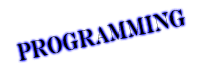
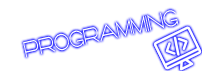
Changed Theming
- Updated stylesheet with darker colours
- Updated icons

Changed region(s): [[0.0594, 0.1127, 1.0, 1.0]]

diff --git a/index.html b/index.html
@@ -1,5 +1,5 @@
 <!-- callum fisher - corbex11@gmail.com
-last updated: 15/11/21 -->
+last updated: 120/11/21 -->
 <!DOCTYPE html>
 <html>
 <head>
@@ -21,25 +21,39 @@ last updated: 15/11/21 -->
 		<noscript><center><p>For the best experience, it's recommended that you <a href="enablejavascript.html">Enable Javascript</a> before continuing.<br>Enabling JavaScript in your browser will allow the website to make use of the powerful programming language that powers most of the web.</p></center></noscript>
 	</div>
 	<div class="content">
+		<img style="float: right;" src="media/welcome.gif" alt="Welcome"></img>
 		<div class="box" id="infoboard" style="color: white; background: linear-gradient(to right, rgb(0,100,160), rgb(0,50,90)); ">
 			<noscript>hi</noscript>
 		</div>
 		<br>
 		<div class="box" style="max-width: 50%;">
-			<a href="photography.html"><img style="max-width: 100%; max-height: 50%;" src="media/PhotoNeon.png" alt="Logo for the photography page"></img></a>
+			<a href="photography.html"><img style="max-width: 100%; max-height: 50%;" src="media/photography.png" alt="Logo for the photography page"></img></a>
 			<p>View some of my favorite pictures I've taken over the years. <a href="photography.html">Learn more..</a></p>
 		</div>
 		<br>
 		<div class="box" style="max-width: 50%;">
-			<a href="programming.html"><img style="max-width: 100%; max-height: 50%;" src="media/CodeNeon.png" alt="Logo for the programming page"></img></a>
+			<a href="writing.html"><img style="max-width: 100%; max-height: 50%;" src="media/writing.png" alt="Logo for the writing page"></img></a>
+			<p>Read some of my written work. <a href="writing.html">Learn more..</a></p>
+		</div>
+		<br>
+		<div class="box" style="max-width: 50%;">
+			<a href="programming.html"><img style="max-width: 100%; max-height: 50%;" src="media/programming.png" alt="Logo for the programming page"></img></a>
 			<p>Learn about my programming projects. <a href="programming.html">Learn more..</a></p>
 		</div>
 	</div>
-	<div class="separator">
-		<p><li>Photography camera & Written Work text icon from <a href="https://www.freepngs.com/" target="_blank" rel="noopener noreferrer">https://freepngs.com/</a></li>
-		<li>Photography logo GIF created using <a href="https://ezgif.com/" target="_blank" rel="noopener noreferrer">https://ezgif.com/</a><br></li>
-		<li>Original assets created using <a href="https://www.photopea.com/" target="_blank" rel="noopener noreferrer">https://www.photopea.com/</a></li></p>
-		<p>Page last updated: 15th of November 2021</p>
-	</div>
 </body>
+<footer>
+	<div class="separator" id="credits">
+		<p><h2>Credits:</h2><ul><h3>Icons</h3><li>Camera icon from <a href="https://www.freepngs.com/" target="_blank" rel="noopener noreferrer">https://freepngs.com/</a></li>
+		<li>Programming icon by <a href="https://www.flaticon.com/authors/lakonicon" title="lakonicon">lakonicon</a> from <a href="https://www.flaticon.com/" title="Flaticon">https://www.flaticon.com/</a></li>
+		<li>Signature icon by <a href="https://www.flaticon.com/authors/yut1655" title="yut1655">yut1655</a> from <a href="https://www.flaticon.com/" title="Flaticon">https://www.flaticon.com/</a></li>
+		<li>Waving icon made by <a href="https://www.freepik.com" title="Freepik">Freepik</a> from <a href="https://www.flaticon.com/" title="Flaticon">https://www.flaticon.com/</a></li>
+		<h3>Services</h3>
+		<li>GIFs created using <a href="https://ezgif.com/" target="_blank" rel="noopener noreferrer">https://ezgif.com/</a></li>
+		<li>Original assets created using <a href="https://www.photopea.com/" target="_blank" rel="noopener noreferrer">Photopea</a></li>
+		<li>Free domain name corbex.tk provided by <a href="https://www.freenom.com/" target="_blank" rel="noopener noreferrer">Freenom</a></li>
+		<li>Hosting provided by <a href="https://pages.github.com/" target="_blank" rel="noopener noreferrer">GitHub Pages</a></li></ul></p>
+		<p>Page last updated: 20th of November 2021</p>
+	</div>
+</footer>
 </html>

diff --git a/themes/standard.css b/themes/standard.css
@@ -1,5 +1,5 @@
 body {
-	background: rgb(200,200,200);
+	background: black;
 	font-family: Arial, Helvetica, sans-serif;
 	margin: 0;
 	padding-left: 100px;
@@ -22,8 +22,8 @@ body {
 
 
 .separator {
-	background: white;
-	color: gray;
+	background: rgb(20,20,20);
+	color: white;
 	border-top-right-radius: 10px;
 	border-top-left-radius: 10px;
 	border-bottom-right-radius: 10px;
@@ -62,8 +62,8 @@ body {
 }
 
 .content {
-	background: rgb(220,220,220);
-	color: black;
+	background: rgb(10,10,10);
+	color: white;
 	font-size: 12pt;
 	border-top-right-radius: 10px;
 	border-top-left-radius: 10px;
@@ -79,7 +79,8 @@ body {
 }
 
 .box {
-	background: white;
+	background: rgb(20,20,20);
+	color: white;
 	font-family: monospace;
 	border-top-right-radius: 10px;
 	border-top-left-radius: 10px;
@@ -94,7 +95,7 @@ body {
 }
 
 .box:hover {
-	background: rgb(240,240,240);
+	background: rgb(15,15,15);
 }
 
 .unselectable {
@@ -183,4 +184,21 @@ img {
 }
 ::-webkit-scrollbar-thumb:hover {
 	background: rgb(0,200,260)
+}
+
+ /* unvisited link */
+ a:link {
+	color: #095484;
+}
+/* visited link */
+a:visited {
+	color: #095484;
+}
+/* mouse over link */
+a:hover {
+	color: rgb(0,50,90)
+}
+/* selected link */
+a:active {
+	color: #095484;
 }

diff --git a/programming.html b/programming.html
@@ -1,5 +1,5 @@
 <!-- callum fisher - corbex11@gmail.com
-last updated: 14/11/21 -->
+last updated: 20/11/21 -->
 <!DOCTYPE html>
 <html>
 <head>
@@ -14,7 +14,7 @@ last updated: 14/11/21 -->
 		<a href="./index.html">Home</a>
 	</div>
 	<div class="separator">
-		<center><img style="max-width:100%; max-height:50%;" src="media/CodeNeon.png" alt="Logo for the programming page"></img></center>
+		<img style="max-width:100%; max-height:50%;" src="media/programming.png" alt="Logo for the programming page"></img>
 	</div>
 	<div class="content">
 		<div class="box" style="max-width: 50%;">
@@ -26,8 +26,10 @@ last updated: 14/11/21 -->
 			<p>Wow it's empty around here</p>
 		</div>
 	</div>
+	</body>
+<footer>
 	<div class="separator">
-		<p>Page last updated: 15th of November 2021</p>
+		<p>Page last updated: 20th of November 2021</p>
 	</div>
-</body>
+</footer>
 </html>

diff --git a/scripts/mcTerminator.js b/scripts/mcTerminator.js
@@ -1,14 +1,13 @@
 /* callum fisher - corbex11@gmail.com
-last updated: 4/11/2021 */
+last updated: 20/11/2021 */
 
 window.onload = function() {
-    var homessi = 0
+    var count = 0;
     setInterval(function() {
-        console.log("test")
-    	homessi++
-	    document.getElementById("slideshow").src = `media/homess${homessi}.png`
-	    if (homessi == 2) {
-	    	homessi = 0
+    	count++
+	    document.getElementById("slideshow").src = `media/mcTerminator${ssi}.png`;
+	    if (count == 2) {
+	    	count = 0;
 	    }
-    }, 4000)
+    }, 4000);
 }
